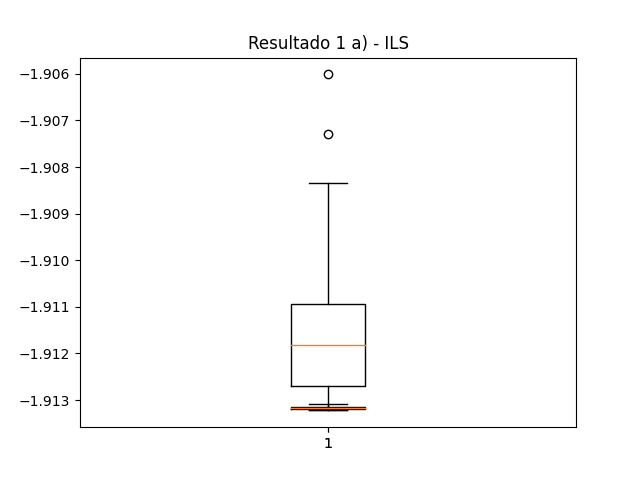
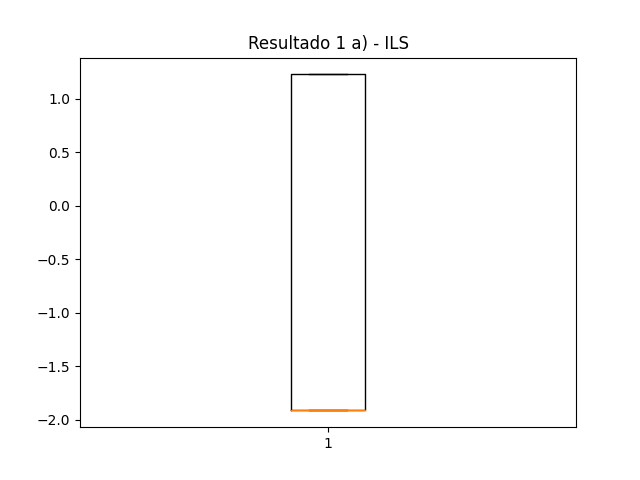
Alteracao semifinal

diff --git a/main.py b/main.py
@@ -59,21 +59,33 @@ limites2d = asarray([[511., 512.],
 iteracoes = 1000
 
 # Definindo tamanho do passo (pertubação) para HC
-Tam_passoHC = 1.0
+Tam_passoHC = 0.05
 
 # Quantidade de reinicios em ILS (tentativa de buscas em novas bacias)
 reinicios = 50
 
 # Tamanho da pertubacao do ILS
-Tam_P = 1.5 
+Tam_P = 0.5
 
-
+'''
 melhor, valor = ils(objetivo1, limites1a, iteracoes, Tam_passoHC, reinicios, Tam_P)
-print('Sucesso!')
-print('ILS: X: %f Y: %f = %f' % (melhor[0], melhor[1], valor))
+print("ILS: X: ",melhor[0]," Y: ",melhor[1]," = ",valor)
 melhor, valor = hc(objetivo1, limites1a, iteracoes, Tam_passoHC)
-print('HC: X: %f Y: %f = %f' % (melhor[0],melhor[1], valor))
-
+print("HC: X: ",melhor[0]," Y: ",melhor[1]," = ",valor)
+'''
+archive = open('Resultados.txt', 'w')
+archive.write("\nConfiguracoes:")
+archive.write("\nIteracoes no HC: " + str(iteracoes))
+archive.write("\nTamanho do passo no HC: " + str(Tam_passoHC))
+archive.write("\nQuantidade de reinicios no ILS: " + str(reinicios))
+archive.write("\nTamanho da pertubação no ILS: " + str(Tam_P))
+archive.write("\n\nRealizando 30 iteracoes dos algoritmos...")
+print("Configuracoes:")
+print("Iteracoes no HC: ", iteracoes)
+print("Tamanho do passo no HC: ",Tam_passoHC)
+print("Quantidade de reinicios no ILS: ", reinicios)
+print("Tamanho da pertubação no ILS: ", Tam_P)
+print("\nRealizando 30 iteracoes dos algoritmos...")
 for i in range(30):
     _ , valor = ils(objetivo1, limites1a, iteracoes, Tam_passoHC, reinicios, Tam_P)
     Resultados1A_ILS.append(valor)
@@ -91,8 +103,7 @@ for i in range(30):
     Resultados2D_ILS.append(valor)
     _ , valor = melhor, valor = hc(objetivo2, limites2d, iteracoes, Tam_passoHC)   
     Resultados2D_HC.append(valor)
-
-archive = open('Resultados.txt', 'w')
+archive.write("\n----------------------")
 archive.write("\n1 - a)")
 archive.write("\nHC: ")
 archive.write("\nMin: " + str(min(Resultados1A_HC)))
@@ -121,6 +132,7 @@ print("Min: ", min(Resultados1A_ILS))
 print("Max: ", max(Resultados1A_ILS))
 print("Std: ", std(Resultados1A_ILS))
 print("Media: ", mean(Resultados1A_ILS))
+plt.clf()
 plt.boxplot(Resultados1A_ILS)
 plt.title("Resultado 1 a) - ILS")
 plt.savefig('plots/1A_ILS.png', format='png')
@@ -139,6 +151,7 @@ print("Min: ",min(Resultados1B_HC))
 print("Max: ",max(Resultados1B_HC))
 print("Std: ",std(Resultados1B_HC))
 print("Media: ",mean(Resultados1B_HC))
+plt.clf()
 plt.boxplot(Resultados1B_HC)
 plt.title("Resultado 1 b) - HC")
 plt.savefig('plots/1B_HC.png', format='png')
@@ -155,6 +168,7 @@ print("Min: ", min(Resultados1B_ILS))
 print("Max: ", max(Resultados1B_ILS))
 print("Std: ", std(Resultados1B_ILS))
 print("Media: ", mean(Resultados1B_ILS))
+plt.clf()
 plt.boxplot(Resultados1B_ILS)
 plt.title("Resultado 1 b) - ILS")
 plt.savefig('plots/1B_ILS.png', format='png')
@@ -172,6 +186,7 @@ print("Min: ",min(Resultados2C_HC))
 print("Max: ",max(Resultados2C_HC))
 print("Std: ",std(Resultados2C_HC))
 print("Media: ",mean(Resultados2C_HC))
+plt.clf()
 plt.boxplot(Resultados2C_HC)
 plt.title("Resultado 2 c) - HC")
 plt.savefig('plots/2C_HC.png', format='png')
@@ -188,6 +203,7 @@ print("Min: ", min(Resultados2C_ILS))
 print("Max: ", max(Resultados2C_ILS))
 print("Std: ", std(Resultados2C_ILS))
 print("Media: ", mean(Resultados2C_ILS))
+plt.clf()
 plt.boxplot(Resultados2C_ILS)
 plt.title("Resultado 2 c) - ILS")
 plt.savefig('plots/2C_ILS.png', format='png')
@@ -206,6 +222,7 @@ print("Min: ",min(Resultados2D_HC))
 print("Max: ",max(Resultados2D_HC))
 print("Std: ",std(Resultados2D_HC))
 print("Media: ",mean(Resultados2D_HC))
+plt.clf()
 plt.boxplot(Resultados2D_HC)
 plt.title("Resultado 2 d) - HC")
 plt.savefig('plots/2D_HC.png', format='png')
@@ -222,8 +239,20 @@ print("Min: ", min(Resultados2D_ILS))
 print("Max: ", max(Resultados2D_ILS))
 print("Std: ", std(Resultados2D_ILS))
 print("Media: ", mean(Resultados2D_ILS))
+plt.clf()
 plt.boxplot(Resultados2D_ILS)
-plt.title("Resultado 2 c) - ILS")
+plt.title("Resultado 2 d) - ILS")
 plt.savefig('plots/2D_ILS.png', format='png')
 #plt.show()
 archive.close()
+
+'''
+print(Resultados1A_HC)
+print(Resultados1A_ILS)
+print(Resultados1B_HC)
+print(Resultados1B_ILS)
+print(Resultados2C_HC)
+print(Resultados2C_ILS)
+print(Resultados2D_HC)
+print(Resultados2D_ILS)
+'''
